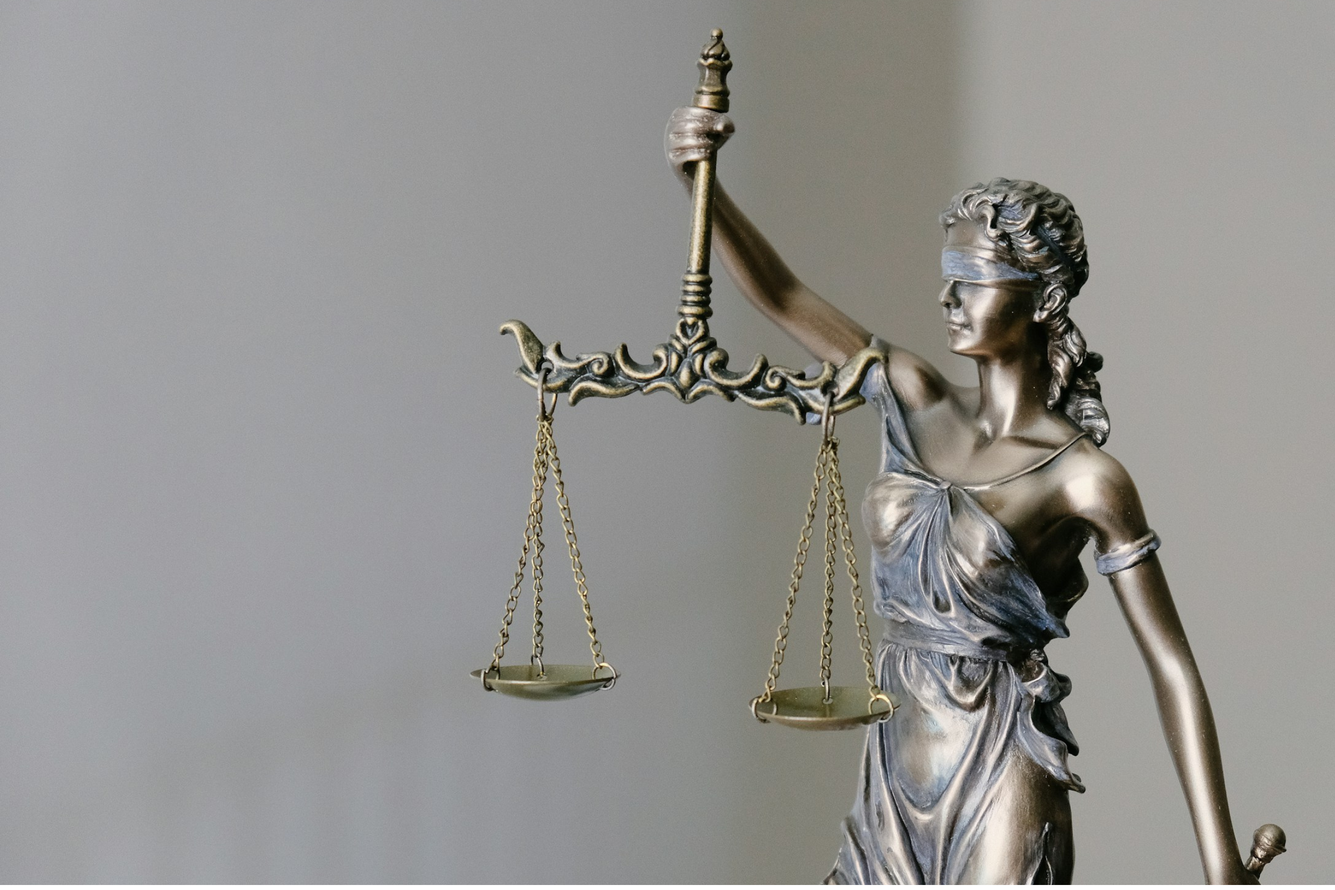
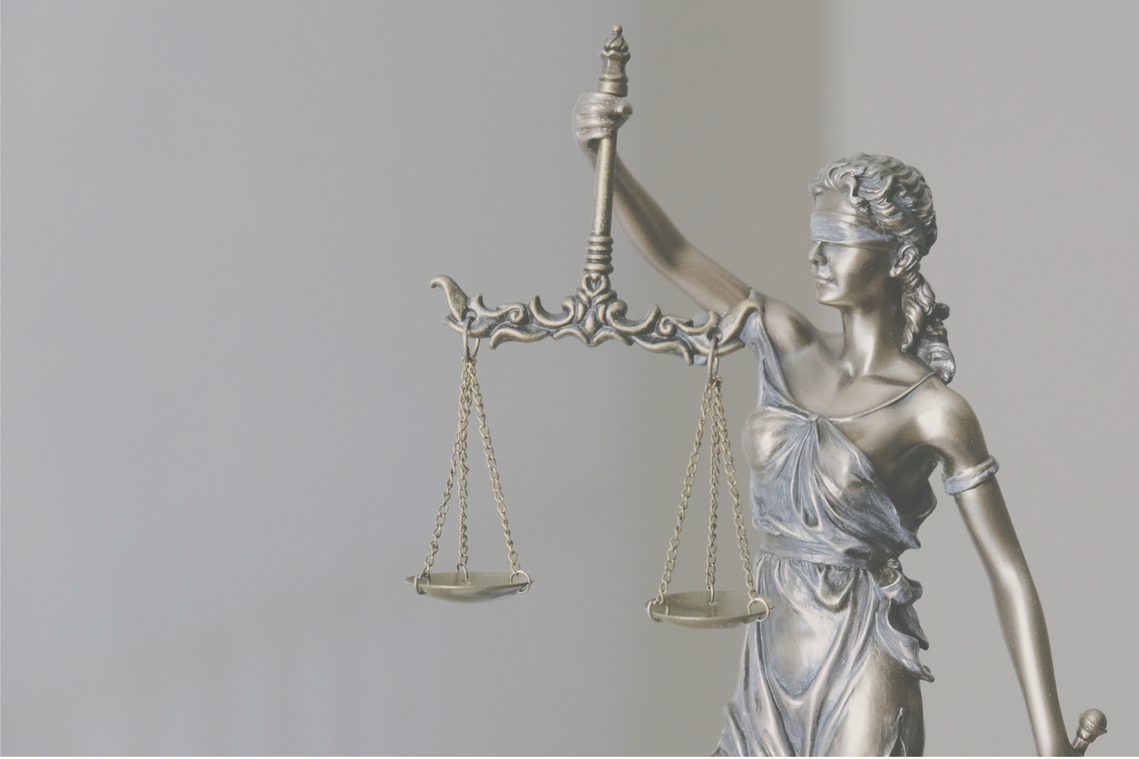
agregado de difuminado de fondo

Changed region(s): [[0.0, 0.0, 1.0, 1.0]]

diff --git a/index.html b/index.html
@@ -40,7 +40,7 @@
         <div class="nosotros-container">
             <div class="nosotros-box">
                 <div class="imagen">
-                    <img src="media/fernandez-nosotros.webp" alt="">
+                    <img src="images/fernandez-nosotros.webp" alt="">
                 </div>
                 <h4>Lorem, ipsum dolor.</h4>
                 <div id="txt">
@@ -60,7 +60,7 @@
             </div>
             <div class="nosotros-box">
                 <div class="imagen">
-                    <img src="media/fernandez-nosotros.webp" alt="">
+                    <img src="images/fernandez-nosotros.webp" alt="">
                 </div>
                 <h4>Lorem, ipsum dolor.</h4>
                 <div id="txt">
@@ -90,7 +90,7 @@
         <div class="contenedor-servicios">
             <div class="servicio" id="servicio-izq">
                 <div class="imagen">
-                    <img src="media/laboral.jpg" alt="">
+                    <img src="images/laboral.jpg" alt="">
                 </div>
                 <h4>Lorem, ipsum dolor.</h4>
                 <div id="txt">
@@ -104,7 +104,7 @@
             </div>
             <div class="servicio">
                 <div class="imagen">
-                    <img src="media/civil.jpg" alt="">
+                    <img src="images/civil.jpg" alt="">
                 </div>
                 <h4>Lorem, ipsum dolor.</h4>
                 <div id="txt">
@@ -118,7 +118,7 @@
             </div>
             <div class="servicio">
                 <div class="imagen">
-                    <img src="media/personalizado.jpg" alt="">
+                    <img src="images/personalizado.jpg" alt="">
                 </div>
                 <h4>Lorem, ipsum dolor.</h4>
                 <div id="txt">

diff --git a/style.css b/style.css
@@ -368,23 +368,13 @@ iframe{
     .contenido-banner{
         background: url(images/background_responsive.png) center center/cover no-repeat;
     }
-    .contenido-banner::after {
-        content: "";
-        position: absolute;
-        top: 10%;
-        left: 0;
-        width: 100%;
-        height: 90%;
-        background-color: rgba(204, 204, 204, 0.5); /* Color semitransparente (#ccc con 50% de opacidad) */
-    }
+
     .contenido-banner h1{
         font-size: 3rem;
         text-align: center;
-        padding-left: 10px;
-        font-weight: 400;
-
-        position: relative;
-        z-index: 1;
+        padding-left: 30px;
+        padding-top: 100px;
+        font-weight: 500;
     }
 
     /*NOSOTROS*/
